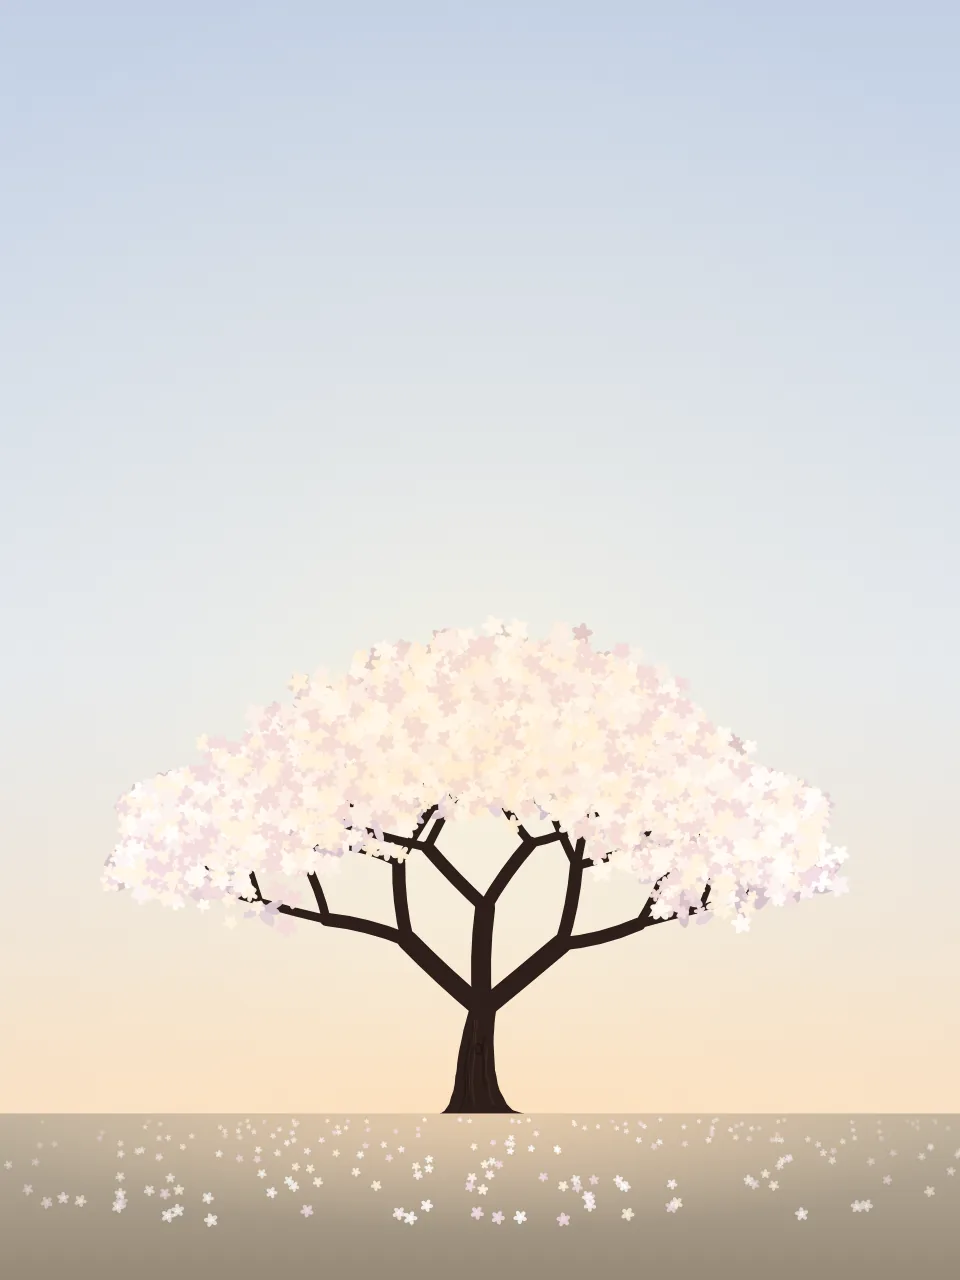
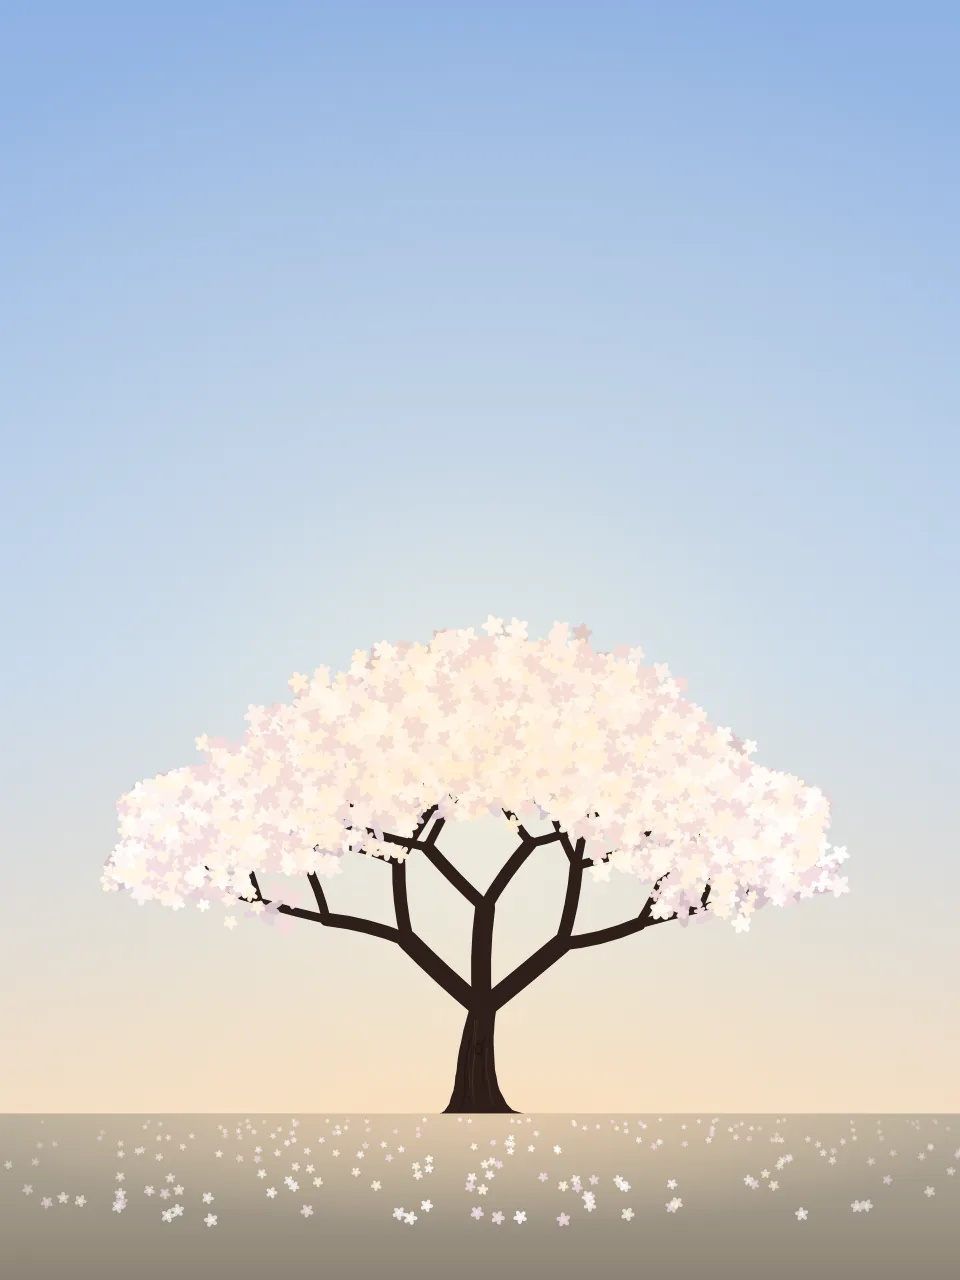
Blanco: cielo de día más azulado para que el árbol resalte
Claude-Session: https://claude.ai/code/session_01Q7t98yhsy4681UtzsgGtic

diff --git a/public/js/tree.js b/public/js/tree.js
@@ -19,7 +19,7 @@
     Amarillo: { name: 'Lapacho amarillo', sci: 'Handroanthus albus', accent: '#f7cf55', mid: '#c99a10', ink: ['#e8a90c', '#f5c518'],
       bg: { top: '#221808', mid: '#40300f', low: '#573b0f', warm: '#d08a14' }, day: { top: '#efd58d', mid: '#f8e8bb', low: '#fcf4dc', warm: '#ffcf70' }, glow: '#f9cf62', bark: '#2d1f1b' },
     Blanco: { name: 'Lapacho blanco', sci: 'Tabebuia roseoalba', accent: '#f4ebf6', mid: '#b9a8c0', ink: ['#e9cfdb', '#fbf1f5'],
-      bg: { top: '#101628', mid: '#222c4a', low: '#333c5a', warm: '#b0703f' }, day: { top: '#c3d0e4', mid: '#dfe6f1', low: '#f1f4f9', warm: '#ffdcb5' }, glow: '#e4dcf8', bark: '#2d1f1b' },
+      bg: { top: '#101628', mid: '#222c4a', low: '#333c5a', warm: '#b0703f' }, day: { top: '#8fb2e2', mid: '#bcd2ee', low: '#e2ecf7', warm: '#ffdcb5' }, glow: '#e4dcf8', bark: '#2d1f1b' },
     Verde: { name: 'Árbol en hoja nueva', sci: '', accent: '#98d878', mid: '#4e9a3b', ink: ['#4e9a3b', '#86c25a'],
       bg: { top: '#07201a', mid: '#0f3a2c', low: '#175038', warm: '#9a7a1c' }, day: { top: '#a9d8be', mid: '#d3ebdc', low: '#ecf6ef', warm: '#ffe9a6' }, glow: '#74cf8a', bark: '#2d1f1b' },
     Negro: { name: 'Silueta al atardecer', sci: '', accent: '#e3cfa2', mid: '#8c7b5c', ink: ['#a8997f', '#e3cfa2'],

diff --git a/public/sw.js b/public/sw.js
@@ -1,7 +1,7 @@
 // Service worker: guarda la app para abrirla sin conexión.
 // Red primero (así siempre ves la última versión publicada), caché si no hay red.
 // Nunca se guarda /api/: el contenido y los registros viajan con la clave y se guardan en la app.
-const CACHE = 'sunset-v49';
+const CACHE = 'sunset-v50';
 const SHELL = [
   './',
   'index.html',
